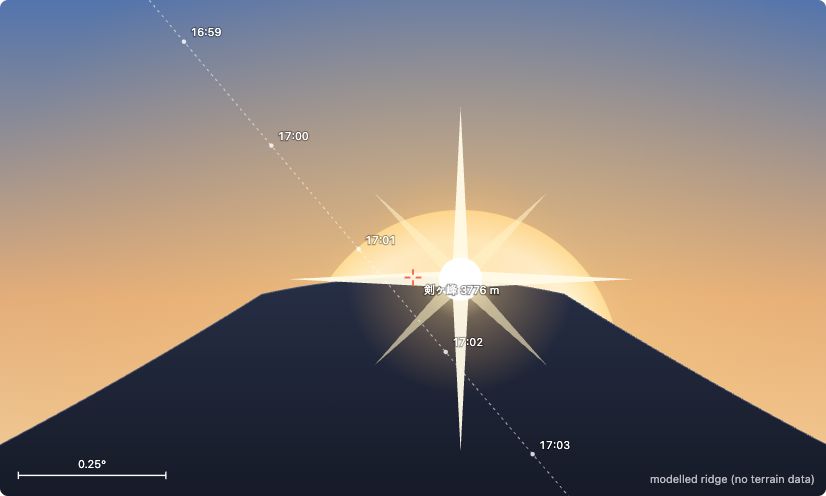
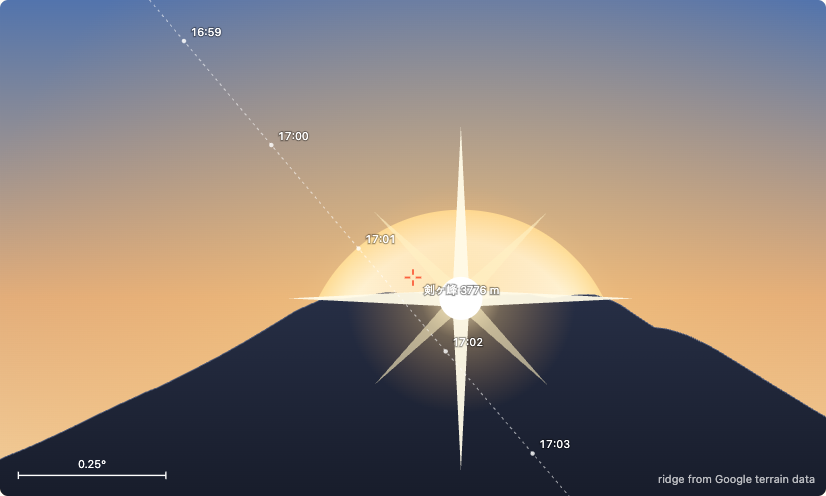
Clearer elevation fallback, crater-aware line of sight, real-terrain screenshots
- Elevation lookups retry 30 s after a refusal instead of giving up until
  reload, so enabling the API on the key takes effect without refreshing.
- When a lookup fails, say so and flag that the value shown is still the
  previous spot's.
- Line of sight ignores Fuji's own crater (1.2 km around Kengamine): from
  close range the near rim stands above Kengamine but isn't an obstruction.
- Retake README screenshots with the ridge drawn from Google terrain.

diff --git a/src/maps/elevation.ts b/src/maps/elevation.ts
@@ -5,25 +5,26 @@ import { crossLines } from '../lib/silhouette';
 
 /**
  * Thin wrapper over google.maps.ElevationService. Every call resolves to null
- * when the Elevation API is unavailable (not enabled on the key, quota, offline),
- * and after a REQUEST_DENIED we stop asking so we don't spam failing requests.
+ * when the Elevation API is unavailable (key not allowed to call it, quota,
+ * offline). After a REQUEST_DENIED we pause for a short while instead of firing
+ * the 11 terrain requests that would fail too, then try again, so fixing the
+ * key in the Cloud console takes effect without a reload.
  */
 
+const DENIAL_BACKOFF_MS = 30_000;
+
 let service: google.maps.ElevationService | null = null;
-let deniedReason: string | null = null;
+let denied: { reason: string; at: number } | null = null;
 const cache = new Map<string, unknown>();
 
 export function elevationUnavailableReason(): string | null {
-  return deniedReason;
+  return denied?.reason ?? null;
 }
 
 async function getService(): Promise<google.maps.ElevationService | null> {
-  if (deniedReason) return null;
+  if (denied && Date.now() - denied.at < DENIAL_BACKOFF_MS) return null;
   if (!service) {
-    if (!window.google?.maps) {
-      deniedReason = 'Google Maps did not load';
-      return null;
-    }
+    if (!window.google?.maps) return null;
     const { ElevationService } = (await google.maps.importLibrary('elevation')) as google.maps.ElevationLibrary;
     service = new ElevationService();
   }
@@ -34,7 +35,7 @@ function noteError(err: unknown) {
   const code = (err as { code?: string })?.code ?? '';
   const msg = err instanceof Error ? err.message : String(err);
   if (code === 'REQUEST_DENIED' || /denied|not authorized|not activated|disabled/i.test(msg)) {
-    deniedReason = 'Elevation API is not enabled for this key';
+    denied = { reason: "Google refused the Elevation request: the API key isn't allowed to use the Elevation API", at: Date.now() };
   }
   console.warn('Elevation request failed:', msg);
 }
@@ -50,6 +51,7 @@ export async function groundElevation(p: LatLng): Promise<number | null> {
     const { results } = await svc.getElevationForLocations({ locations: [p] });
     const e = results[0]?.elevation;
     if (typeof e !== 'number') return null;
+    denied = null;
     cache.set(k, e);
     return e;
   } catch (err) {

diff --git a/src/components/Controls.tsx b/src/components/Controls.tsx
@@ -68,7 +68,13 @@ function NumberField(props: {
 export function Controls(p: Props) {
   const losText = (() => {
     if (p.terrainStatus === 'loading') return <span className="muted">Checking terrain…</span>;
-    if (!p.los) return <span className="muted">Not checked (needs the Elevation API)</span>;
+    if (!p.los)
+      return (
+        <span className="muted">
+          Not checked. The key isn’t allowed to call the Elevation API (Cloud console → Credentials → this key → API
+          restrictions).
+        </span>
+      );
     if (p.los.clear)
       return (
         <span className="ok">
@@ -105,7 +111,15 @@ export function Controls(p: Props) {
           suffix="m"
           onCommit={p.onGround}
           hint={
-            p.groundSource === 'loading' ? 'Looking up…' : p.groundSource === 'google' ? 'From Google terrain' : p.elevationNote ?? 'Entered by you'
+            p.groundSource === 'loading' ? (
+              'Looking up…'
+            ) : p.groundSource === 'google' ? (
+              'From Google terrain'
+            ) : p.elevationNote ? (
+              <span className="warn">{p.elevationNote}</span>
+            ) : (
+              'Entered by you'
+            )
           }
         />
         <NumberField label="Eye height above ground" value={p.agl} digits={1} min={0} suffix="m" onCommit={p.onAgl} hint="Add floors or a tripod here" />

diff --git a/src/lib/silhouette.ts b/src/lib/silhouette.ts
@@ -101,6 +101,9 @@ export function modelSilhouette(obs: Place, target: Target, summit: Place = FUJI
   return skyline(lines);
 }
 
+/** Radius around Kengamine treated as "the summit" (covers the ~800 m crater). */
+export const SUMMIT_ZONE_M = 1200;
+
 export interface LineOfSight {
   clear: boolean;
   /** Summit altitude minus the highest obstruction's altitude, degrees. */
@@ -110,14 +113,16 @@ export interface LineOfSight {
 
 /**
  * Whether terrain sampled along the observer→summit path hides the summit.
- * Ignores the first 300 m (the observer's own ground) and the last 500 m (the summit).
+ * Ignores the first 300 m (the observer's own ground) and the last 1.2 km: that is
+ * Fuji's own crater, whose near rim can stand higher than Kengamine from close
+ * range. That rim is where the sun actually sits, so it isn't an obstruction.
  */
 export function lineOfSight(obs: Place, target: Target, samples: Place[]): LineOfSight {
   let maxAlt = -Infinity;
   let worst: LineOfSight['worst'];
   for (const s of samples) {
     const p = pointAzAlt(obs, s);
-    if (p.distance < 300 || target.distance - p.distance < 500) continue;
+    if (p.distance < 300 || target.distance - p.distance < SUMMIT_ZONE_M) continue;
     if (p.alt > maxAlt) {
       maxAlt = p.alt;
       worst = { ...s, distanceKm: p.distance / 1000 };

diff --git a/src/App.tsx b/src/App.tsx
@@ -89,6 +89,7 @@ export default function App() {
     if (!mapsReady) return;
     let cancelled = false;
     const useLookup = !(firstRun && skipFirstGround);
+    const moved = !firstRun;
     setFirstRun(false);
     if (useLookup) setGroundSource('loading');
     setTerrainStatus('loading');
@@ -101,7 +102,11 @@ export default function App() {
           setGroundSource('google');
         } else {
           setGroundSource('manual');
-          setElevationNote(elevationUnavailableReason() ? 'Elevation API unavailable: enter it yourself' : 'Lookup failed: enter it yourself');
+          // Say plainly that the number shown belongs to the previous spot.
+          setElevationNote(
+            (elevationUnavailableReason() ? 'Elevation API refused. ' : 'Lookup failed. ') +
+              (moved ? 'Still showing the previous spot’s value, so enter yours.' : 'Enter it yourself.'),
+          );
         }
       }
       const samples = await terrainSamples(observer, summitTarget({ ...observer, elev: 0 }));

diff --git a/src/lib/lib.test.ts b/src/lib/lib.test.ts
@@ -120,6 +120,15 @@ describe('silhouette', () => {
     expect(lineOfSight(TOKYO_STATION, t, [mid]).clear).toBe(false);
     expect(lineOfSight(TOKYO_STATION, t, [{ ...mid, elev: 100 }]).clear).toBe(true);
   });
+
+  it("doesn't treat Fuji's own near crater rim as an obstruction", () => {
+    // Panorama-dai, 17.5 km out: Google terrain has the near rim (3689 m) ~500 m in
+    // front of Kengamine, appearing above it. That's the summit, not a blocker.
+    const pano: Place = { lat: 35.4126, lng: 138.9095, elev: 1094.6 };
+    const t = summitTarget(pano);
+    const rim = { lat: 35.36257, lng: 138.73225, elev: 3689 };
+    expect(lineOfSight(pano, t, [rim]).clear).toBe(true);
+  });
 });
 
 it('prints a sample for eyeballing', () => {

diff --git a/README.md b/README.md
@@ -17,7 +17,7 @@ Everything runs in Docker; nothing is installed on the host.
 
 **Close range:** from Panorama-dai at Lake Yamanaka, 17 km away, the crater's near rim stands higher in the sky than Kengamine itself. The crosshair marks Kengamine, hidden behind the rim.
 
-These screenshots use the modelled ridge. With the Elevation API enabled, the app draws the real one.
+The screenshots draw Fuji's ridge from Google terrain data (Elevation API enabled). Without the Elevation API, the app draws a modelled cone instead.
 
 ## Run
 
